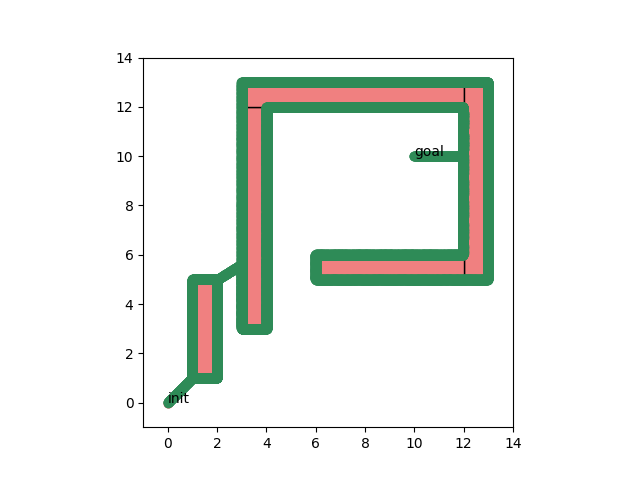
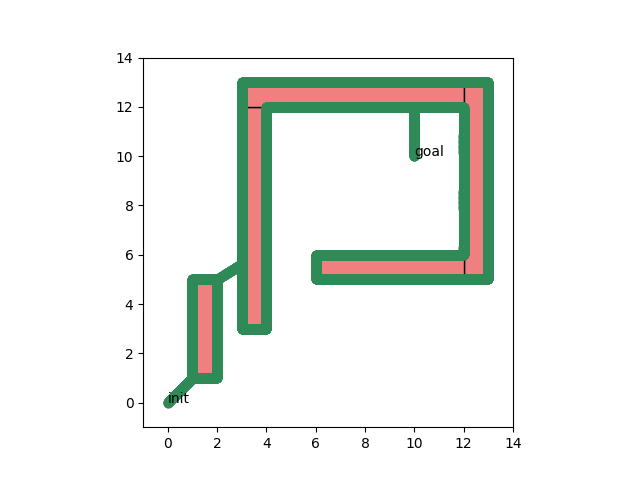
Changed Bug1 perimeter following to be more precise and add basic corner detection to avoid some corner cutting.

Changed region(s): [[0.625, 0.2188, 0.7188, 0.3438]]

diff --git a/ws/hw2/Bug1.cpp b/ws/hw2/Bug1.cpp
@@ -6,24 +6,20 @@ amp::Path2D Bug1::plan(const amp::Problem2D& problem) {
     amp::Path2D path;
     path.waypoints.push_back(problem.q_init);
 
-    Eigen::Vector2d dir = (problem.q_goal - path.waypoints.back()).normalized();
-    Eigen::Vector2d q_next = dir * step_size + path.waypoints.back();
+    Eigen::Vector2d step = (problem.q_goal - path.waypoints.back()).normalized() * step_size;
 
-    Eigen::Rotation2D<double> rot(M_PI / 36);
-    Eigen::Rotation2D<double> rot90CW(-M_PI / 2);
-    Eigen::Rotation2D<double> rot90CCW(M_PI / 2);
+    Eigen::Rotation2D<double> rotCW(-M_PI / 36); // rotation matrix for 5 deg CCW
+    Eigen::Rotation2D<double> rotCCW(M_PI / 36); // rotation matrix for 5 deg CW
 
     while (true){
         while (true){ // Move Towards Goal
-            dir = (problem.q_goal - path.waypoints.back()).normalized();
-            q_next = dir * step_size + path.waypoints.back();
             if ((problem.q_goal - path.waypoints.back()).norm() < step_size){
                 path.waypoints.push_back(problem.q_goal); // reached goal
                 return path;
-            } else if(check_collisions(q_next, problem.obstacles)) {
+            } else if(check_collisions(step + path.waypoints.back(), problem.obstacles)) {
                 break; // detected obstacle
             } else {
-                path.waypoints.push_back(q_next);
+                path.waypoints.push_back(step + path.waypoints.back());
             }
         }
         // initialize variables for perimeter following
@@ -31,34 +27,29 @@ amp::Path2D Bug1::plan(const amp::Problem2D& problem) {
         size_t q_leave_i = path.waypoints.size() - 1;
         double dist = (problem.q_goal - path.waypoints[q_hit_i]).norm();
         double best_dist = dist;
-        dir = rot90CCW * dir;
+
         // perimeter following loop
-        while(true){
-            if (!check_collisions((rot90CW * dir) * step_size + path.waypoints.back(), problem.obstacles)){
-                dir = rot90CW * dir;
-                q_next = dir * step_size + path.waypoints.back();
-            } else if (!check_collisions(dir * step_size + path.waypoints.back(), problem.obstacles)) {
-                q_next = dir * step_size + path.waypoints.back();
-            } else if (!check_collisions((rot90CCW * dir) * step_size + path.waypoints.back(), problem.obstacles)){
-                dir = rot90CCW * dir;
-                q_next = dir * step_size + path.waypoints.back();
-            } else {
-                dir = -dir;
-                q_next = dir * step_size + path.waypoints.back();
+        while (((path.waypoints.size() - q_hit_i) < 4) || (path.waypoints[q_hit_i] - path.waypoints.back()).norm() > step_size){
+            // Corner Detection
+            if (!check_collisions(rotCW * (rotCW * step) + path.waypoints.back(), problem.obstacles)
+                && !check_collisions(step + path.waypoints.back(), problem.obstacles)){
+                path.waypoints.push_back(step + path.waypoints.back());
             }
-            path.waypoints.push_back(q_next);
+            // Edge Finding
+            while (!check_collisions(step + path.waypoints.back(), problem.obstacles)){
+                step = rotCW * step;
+            }
+            while (check_collisions(step + path.waypoints.back(), problem.obstacles)){
+                step = rotCCW * step;
+            }
+            path.waypoints.push_back(step + path.waypoints.back());
             // Check if point is closer to goal than all other points and store it if so.
             dist = (problem.q_goal - path.waypoints.back()).norm();
             if (dist < best_dist) {
                 q_leave_i = path.waypoints.size() - 1;
                 best_dist = dist;
             }
-            // Check if returned to leave point
-            if (((path.waypoints.size() - q_hit_i) > 3) && (path.waypoints[q_hit_i] - path.waypoints.back()).norm() <= step_size){
-                break;
-            }
         }
-
         // Return to the closest leave point to goal via the fastest path
         if(q_leave_i - q_hit_i < (path.waypoints.size() - 1 - q_leave_i)){
             for(int i = q_hit_i; i <= q_leave_i; i++){
@@ -69,11 +60,10 @@ amp::Path2D Bug1::plan(const amp::Problem2D& problem) {
                 path.waypoints.push_back(path.waypoints[i]);
             }
         }
-
         // Check if there is path towards goal from leave point
-        dir = (problem.q_goal - path.waypoints.back()).normalized();
-        q_next = dir * step_size + path.waypoints.back();
-        if (check_collisions(q_next, problem.obstacles)){
+        step = (problem.q_goal - path.waypoints.back()).normalized() * step_size;
+        if (check_collisions(step_size + path.waypoints.back(), problem.obstacles)){
+            LOG("No Path Found!");
             break;
         }
     }
@@ -85,6 +75,7 @@ bool Bug1::check_collisions(Eigen::Vector2d point, std::vector<amp::Obstacle2D> 
     size_t numObstacles = obstacles.size();
 
     for (int i = 0; i < numObstacles; i++){
+        // if point is in an obstacle stop search and return collision as true
         if (collide_object(point, obstacles[i])){
              return true;
         }
@@ -98,6 +89,9 @@ bool Bug1::collide_object(Eigen::Vector2d point, amp::Obstacle2D obstacle){
     size_t numVertices = vertices.size();
 
     for (int i = 0; i < numVertices - 1; i++){
+        // check if vectors from point to vertices proceed in CW or CCW direction
+        // CW (negative cross product) -> point is not in half plane defined by the vertices
+        // Since vertices are defined as CCW -> point outside polygon, return collision as false
         Eigen::Vector2d vec1 = vertices[i] - point;
         Eigen::Vector2d vec2 = vertices[i + 1] - point;
         if ((vec1(0) * vec2(1) - vec1(1) * vec2(0)) < 0){
